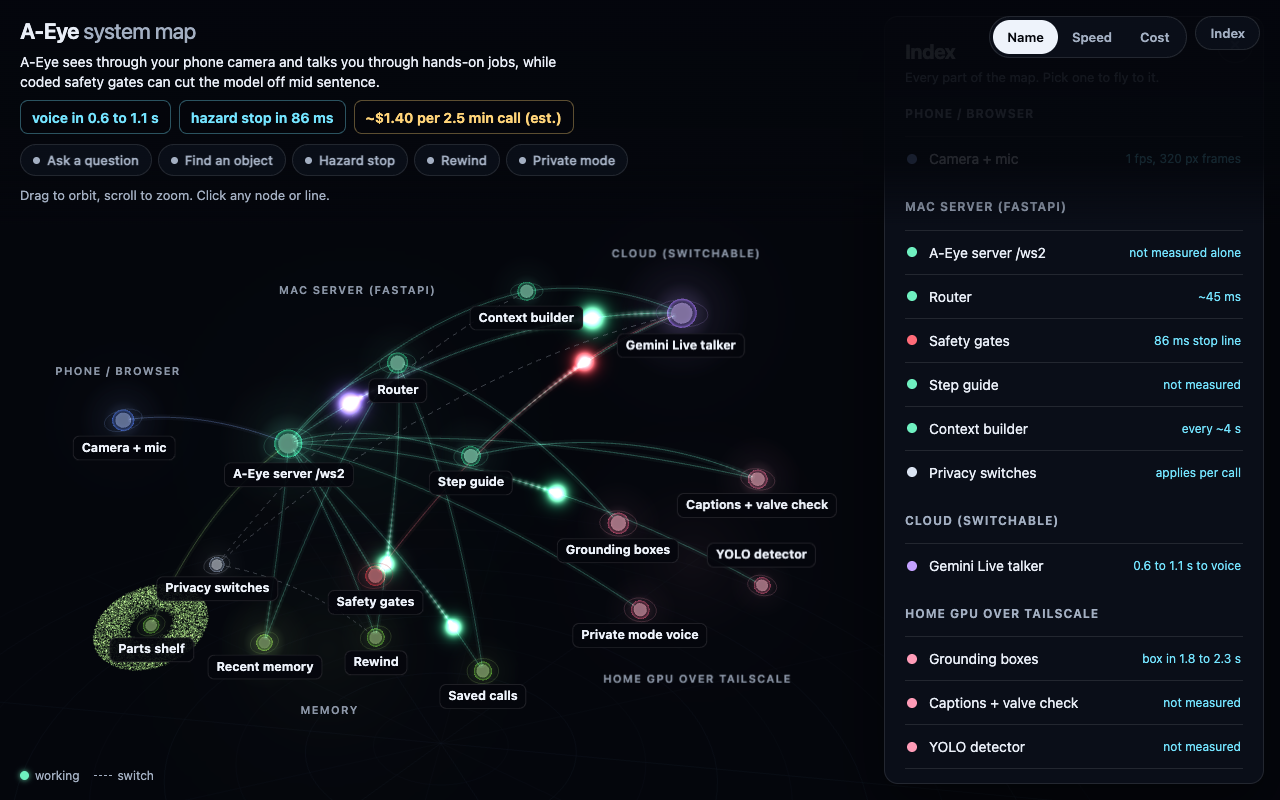
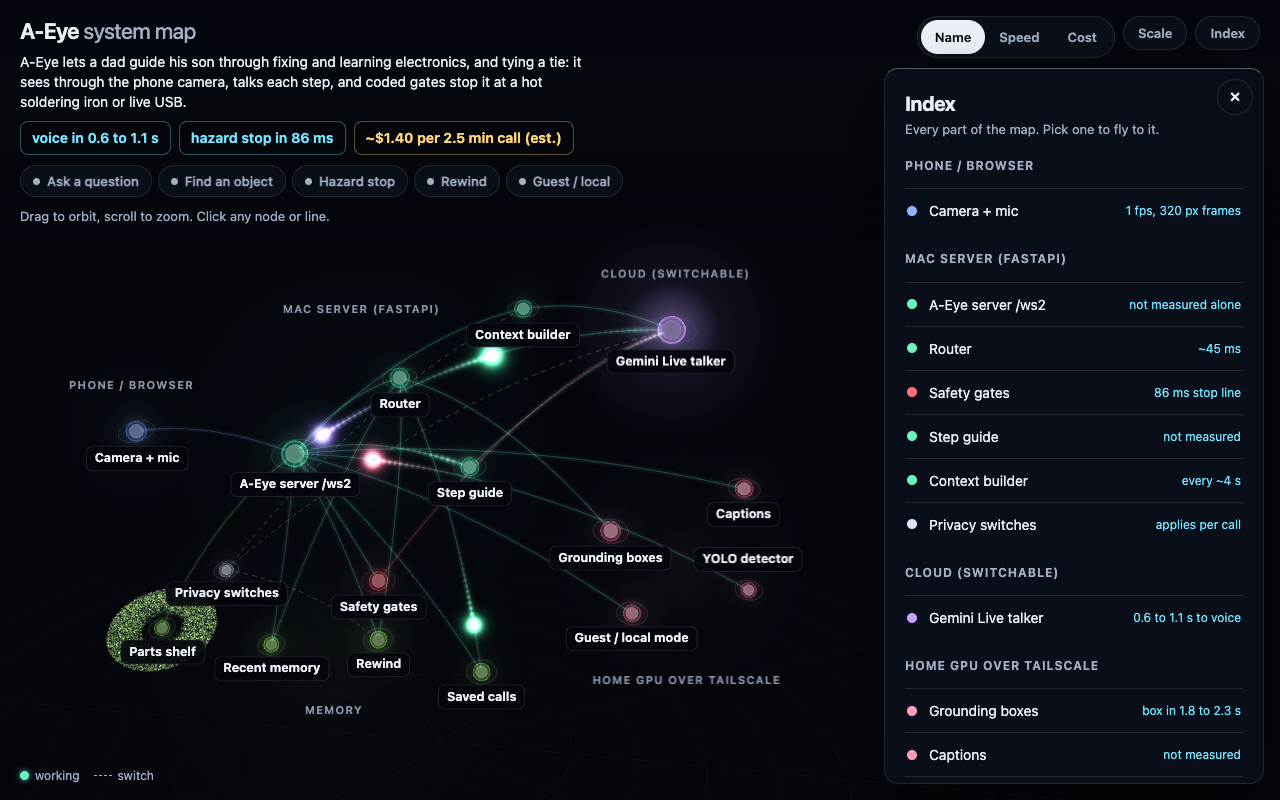
System map: electronics and tie focus, Guest / local flow, stays vs goes panel, Scale placeholders
Step guide shows the coded electronics tasks on main (LED build, resistor bands, LED
polarity) and marks multimeter, soldering and the tie as not yet coded; valve checker
removed; hazards are the hot soldering iron and live USB; parts shelf is the 20
electronics cards (11 linked to products). Guest / local flow replaces Private mode;
privacy panel lists what stays home vs goes to the cloud. Scale panel holds placeholder
rows marked numbers coming. Test blocks home-repair words on the map.

Verified: node --test client-web/map-data.test.mjs (6 pass); headless Chromium on Metal,
recaptured 1536/1280/390 and crops, frame p95 <= 16.8 ms, worst label contrast 9.4:1.

diff --git a/client-web/map.js b/client-web/map.js
@@ -332,6 +332,7 @@ function lookHtml(w) {
   else if (w.type === 'cards') inner = `<div class="cards">${w.cards.map((c) => `<div class="card t-${c.tone || ''}"><b>${esc(c.head)}</b>${esc(c.body)}</div>`).join('')}</div>`;
   else if (w.type === 'scopes') inner = `<div class="scopes">${w.rows.map((r) => `<div class="scope"><i style="background:${tone(r.tone)}"></i><span>${esc(r.label)}<br><small>${esc(r.who)}</small></span><span class="st ${r.status}">${esc(r.status)}</span></div>`).join('')}</div>`;
   else if (w.type === 'switches') inner = w.rows.map((r) => `<div class="sw"><span>${esc(r.label)}</span><small>${esc(r.sends)}</small><button data-go="${r.node}">Show</button></div>`).join('');
+  else if (w.type === 'split') inner = `<p class="sec">Stays on our machines</p><ul class="facts">${w.stay.map((t) => `<li>${esc(t)}</li>`).join('')}</ul><p class="sec">Goes to the cloud</p><ul class="facts">${w.go.map(([k, v]) => `<li><b>${esc(k)}</b>${esc(v)}</li>`).join('')}</ul>`;
   else if (w.type === 'stat') inner = `<div class="stat">${esc(w.value)}<small>${esc(w.unit)}</small></div>`;
   return `<section class="look"><h3>${esc(w.title)}</h3>${inner}${w.foot ? `<p class="foot">${esc(w.foot)}</p>` : ''}</section>`;
 }
@@ -369,6 +370,10 @@ function indexPanel() {
   }
   return s + `<p class="sec" style="margin-top:14px">About the numbers</p><p class="kind">${esc(data.measured_note)} ${esc(data.cost_note)}</p>`;
 }
+function scalePanel() {
+  const sc = data.scale;
+  return `<h2>${esc(sc.title)}</h2><p class="note-build">${esc(sc.note)}</p><ul class="facts">${sc.rows.map((r) => `<li><b>${esc(r.label)}</b>${r.value ? esc(r.value) : '<span class="pending">numbers coming</span>'}</li>`).join('')}</ul>`;
+}
 function openPanel(html) {
   body.innerHTML = html;
   panel.hidden = false;
@@ -383,6 +388,7 @@ panel.addEventListener('click', (ev) => {
   else if (t.dataset.edge) select({ kind: 'edge', id: t.dataset.edge });
 });
 document.getElementById('closeBtn').addEventListener('click', closePanel);
+document.getElementById('scaleBtn').addEventListener('click', () => { selected = null; applyFocus(); openPanel(scalePanel()); });
 document.getElementById('indexBtn').addEventListener('click', () => { selected = null; applyFocus(); openPanel(indexPanel()); });
 
 // ---------- camera framing ----------
@@ -728,6 +734,7 @@ if (startFlow) setFlow(startFlow);
 const sel = params.get('select');
 if (sel && (nodes[sel] || edges[sel])) { REDUCED || (tween = null); select({ kind: nodes[sel] ? 'node' : 'edge', id: sel }); }
 if (params.get('panel') === 'index') openPanel(indexPanel());
+if (params.get('panel') === 'scale') openPanel(scalePanel());
 // play "Ask a question" once on a plain load to lead the eye (never under reduced motion)
 if (!REDUCED && !location.search) setFlow(data.flows.find((f) => f.id === 'ask'), true);
 requestAnimationFrame(tick);

diff --git a/client-web/map.css b/client-web/map.css
@@ -79,7 +79,7 @@ button:focus-visible { outline: 2px solid var(--label-speed); outline-offset: 2p
 .lab.hide { display: none; }
 
 /* panel */
-.panel { position: fixed; top: 16px; right: 16px; bottom: 16px; width: 380px; background: var(--surface); border: 1px solid var(--rim); border-top-color: rgba(255,255,255,.32); border-radius: 14px; backdrop-filter: blur(16px) saturate(1.2); padding: 20px 20px 24px; overflow-y: auto; box-shadow: 0 24px 60px rgba(0,0,0,.5); animation: slide .45s var(--ease); }
+.panel { position: fixed; z-index: 3; top: 68px; right: 16px; bottom: 16px; width: 380px; background: var(--surface); border: 1px solid var(--rim); border-top-color: rgba(255,255,255,.32); border-radius: 14px; backdrop-filter: blur(16px) saturate(1.2); padding: 20px 20px 24px; overflow-y: auto; box-shadow: 0 24px 60px rgba(0,0,0,.5); animation: slide .45s var(--ease); }
 @keyframes slide { from { opacity: 0; transform: translateX(16px); } }
 .close { position: absolute; top: 10px; right: 10px; width: 36px; height: 36px; border-radius: 50%; border: 1px solid var(--rim); background: transparent; color: var(--text); font-size: 20px; cursor: pointer; }
 .panel h2 { margin: 0 40px 2px 0; font-size: 20px; letter-spacing: -0.015em; }
@@ -122,6 +122,7 @@ button:focus-visible { outline: 2px solid var(--label-speed); outline-offset: 2p
 .sw:first-of-type { border-top: 0; }
 .sw small { color: var(--muted); grid-column: 1; }
 .sw button { grid-row: 1 / span 2; grid-column: 2; align-self: center; font: 600 12px var(--font); color: var(--label-speed); background: none; border: 1px solid var(--rim-hi); border-radius: 999px; padding: 5px 10px; cursor: pointer; min-height: 30px; }
+.pending { color: var(--build); font-weight: 600; }
 .stat { font-size: 40px; font-weight: 700; letter-spacing: -0.03em; line-height: 1; }
 .stat small { font-size: 14px; color: var(--muted); font-weight: 500; letter-spacing: 0; margin-left: 6px; }
 .index { list-style: none; margin: 0; padding: 0; }

diff --git a/client-web/map.html b/client-web/map.html
@@ -24,6 +24,7 @@
       <button role="radio" data-mode="speed" aria-checked="false">Speed</button>
       <button role="radio" data-mode="cost" aria-checked="false">Cost</button>
     </div>
+    <button id="scaleBtn" class="ghost" aria-controls="panel">Scale</button>
     <button id="indexBtn" class="ghost" aria-controls="panel">Index</button>
   </div>
   <nav class="flows" id="flows" aria-label="Play a data flow"></nav>

diff --git a/docs/results/system-map/shoot.py b/docs/results/system-map/shoot.py
@@ -14,6 +14,13 @@ SHOTS = [
     ('390-cost', 390, 844, '?mode=cost'),
     ('390-index', 390, 844, '?panel=index'),
     ('390-cost-selected', 390, 844, '?mode=cost&select=gemini'),
+    ('1280-guide-panel', 1280, 800, '?select=guide'),
+    ('1280-privacy-panel', 1280, 800, '?select=privacy'),
+    ('1280-scale', 1280, 800, '?panel=scale'),
+    ('1280-flow-guest', 1280, 800, '?flow=guest'),
+    ('390-scale', 390, 844, '?panel=scale'),
+    ('390-privacy-panel', 390, 844, '?select=privacy'),
+    ('390-flow-guest', 390, 844, '?flow=guest'),
     ('1280-speed', 1280, 800, '?mode=speed'),
     ('1280-cost', 1280, 800, '?mode=cost'),
     ('1280-router-panel', 1280, 800, '?mode=speed&select=router'),

diff --git a/docs/results/system-map.md b/docs/results/system-map.md
@@ -4,6 +4,21 @@ Interactive 3D map of the A-Eye system for judges, served at `/map.html` next to
 per call, all driven by one JSON file. Branch `pkg/system-map`; the commit sha is in the git log of that branch (this
 file is part of that commit).
 
+## Product focus round (owner, 2026-10-25)
+
+1. Electronics plus a tie: the headline, step guide and parts shelf now follow the dad guiding his son. The step guide
+   panel lists the coded tasks on main (Arduino LED build 7 steps, resistor bands 2, LED polarity 2) and marks
+   multimeter, soldering and tying a tie as having no coded steps yet. The valve checker panel and its line are gone;
+   the GPU node is Captions. Hazard examples are the hot soldering iron and live USB (`server/safety.py`,
+   `server/packs/electronics.py`). Parts shelf: 20 electronics cards, 11 linked to products (`data/kb/cards.json`),
+   from the 10,001-listing Apify scrape.
+2. "Guest / local" flow replaces Private mode: camera to server, router, local grounding, Whisper / local brain /
+   Kokoro and back, $0 cloud. The Privacy switches panel shows what stays on our machines and what goes to the cloud
+   in a normal call (`1280-privacy-panel.png`, `390-privacy-panel.png`, `1280-flow-guest.png`).
+3. Scale panel (header button) with placeholder rows marked "numbers coming" (`1280-scale.png`, `390-scale.png`).
+4. A test fails if sink, faucet, valve, plumbing, hinge or breaker appear in the map data, page or script. Panels now
+   open below the header controls on desktop.
+
 ## Polish round (after SIGN-OFF WITH NOTES, 8 of 10, on b035759)
 
 1. Ambient pulse heads 1.6x the first build (2.4 vs 1.5), thin tails that fade out over the last 10% of each line, so
